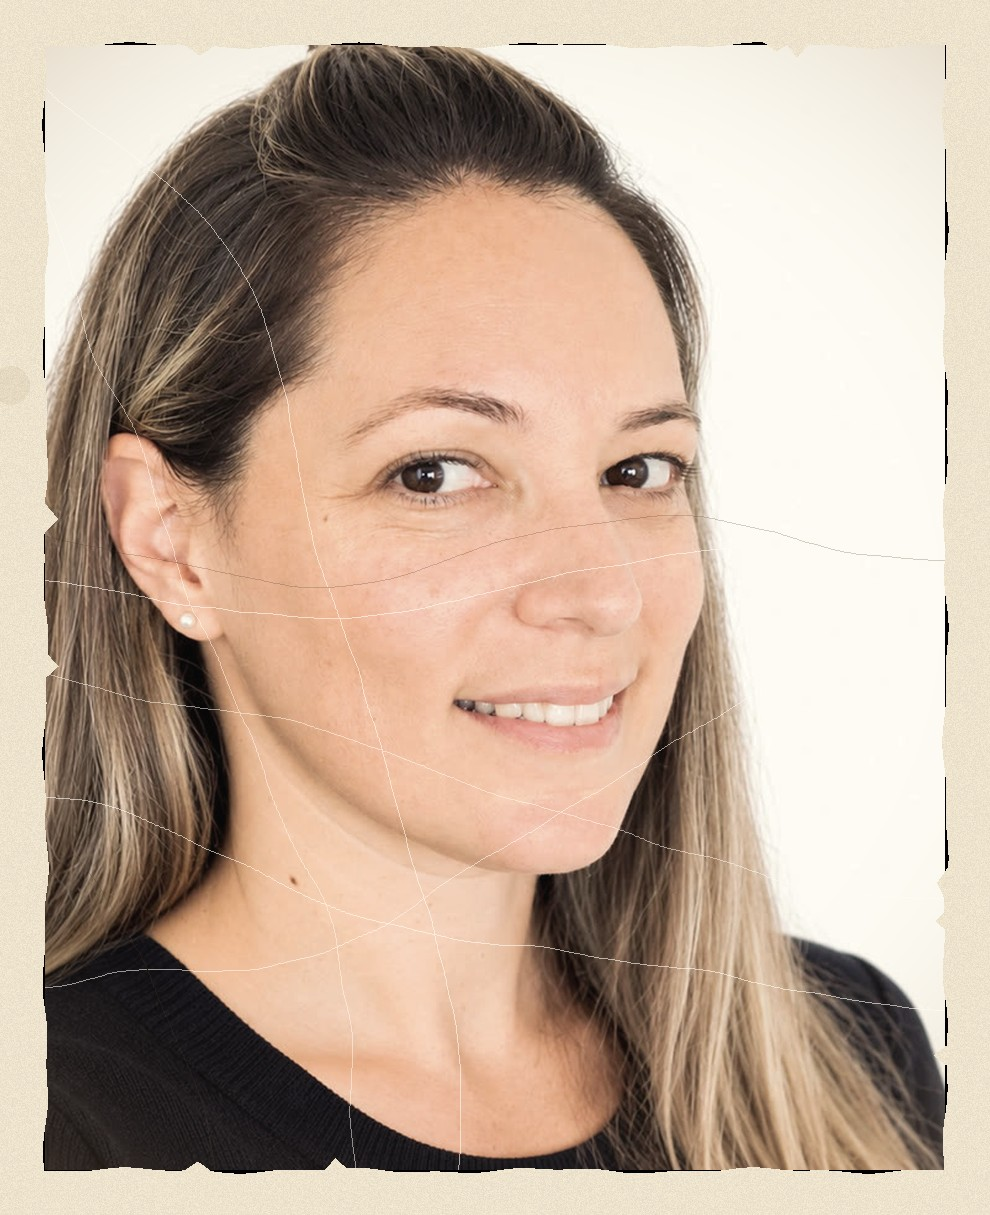
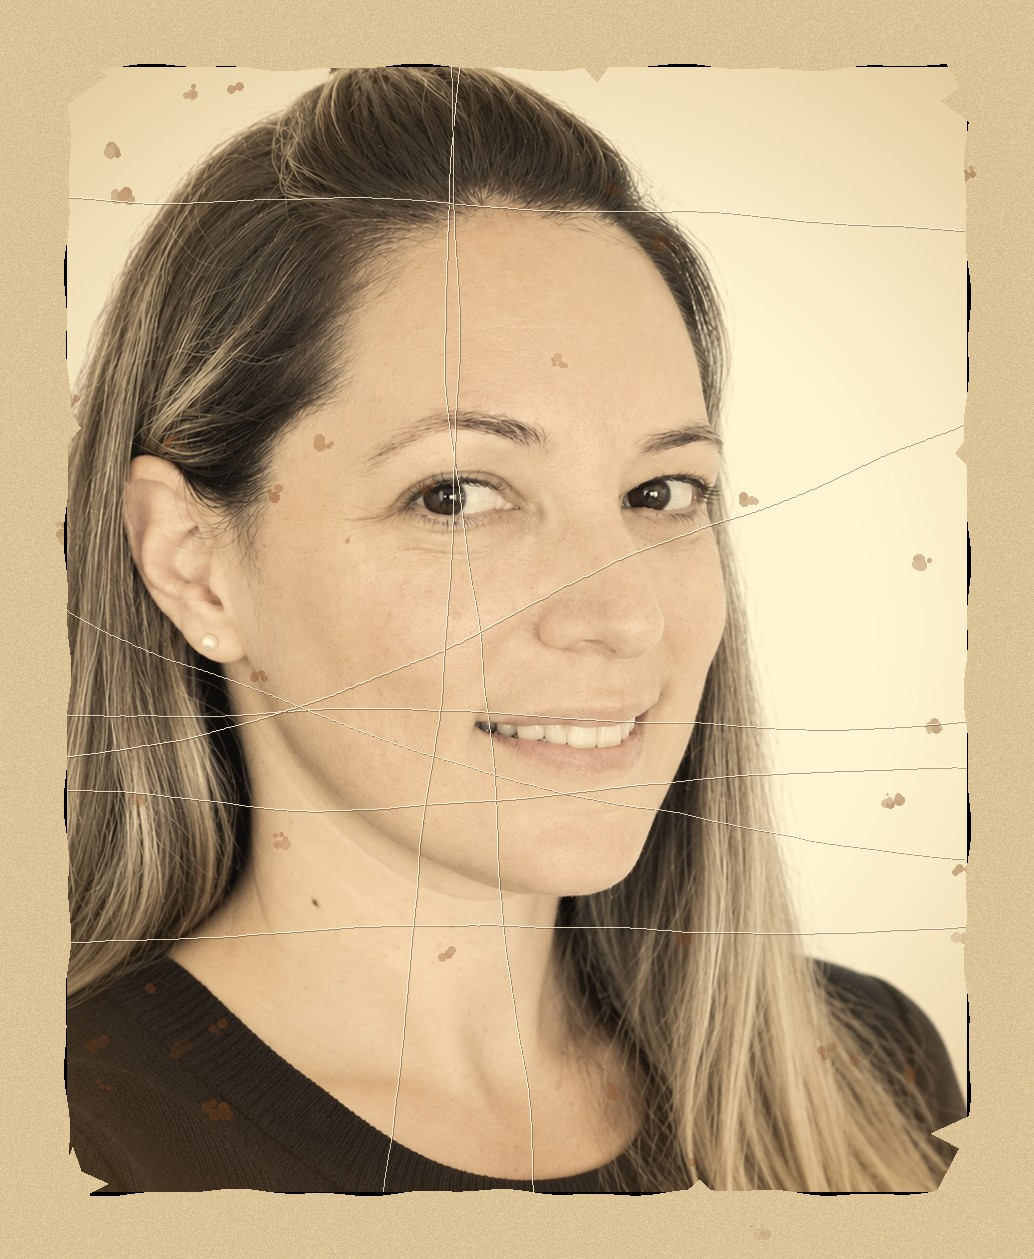
Strengthen aged founder prints and update bios (#4)
The portraits keep the same faces, with a warmer print, rust foxing, clearer creases, and a torn cream border. The team copy is the wording Ofir approved.

diff --git a/index.html b/index.html
@@ -177,23 +177,23 @@
         <div class="team">
           <article class="person">
             <div class="person-photo">
-              <img src="images/lia.jpg" alt="Portrait of Lia Rozenberg" width="990" height="1215">
+              <img src="images/lia.jpg" alt="Portrait of Lia Rozenberg" width="1034" height="1259">
             </div>
             <div class="person-body">
               <h3>Lia Rozenberg</h3>
               <div class="person-bio">
-                <p>Co-founder, Graceville local, wife and a mother of three, computer science university lecturer and educator with love to art, sketching and colouring, photography, design and organising cluttered spaces.</p>
+                <p>Graceville local, wife, and mum of three. Lia lectures in computer science and loves art, photography, and bringing order to cluttered spaces — the same care she brings to your family’s photos.</p>
               </div>
             </div>
           </article>
           <article class="person">
             <div class="person-photo">
-              <img src="images/leigh.jpg" alt="Portrait of Leigh Angus" width="990" height="1215">
+              <img src="images/leigh.jpg" alt="Portrait of Leigh Angus" width="1034" height="1259">
             </div>
             <div class="person-body">
               <h3>Leigh Angus</h3>
               <div class="person-bio">
-                <p>Co-founder, Sherwood local, wife and a mother of three. Leigh brings 20+ years of enterprise digital transformation to the photos families keep.</p>
+                <p>Sherwood local, wife, and mum of three. With 20+ years helping organisations digitise what matters, Leigh brings that same care to the photos families can’t bear to lose.</p>
               </div>
             </div>
           </article>
